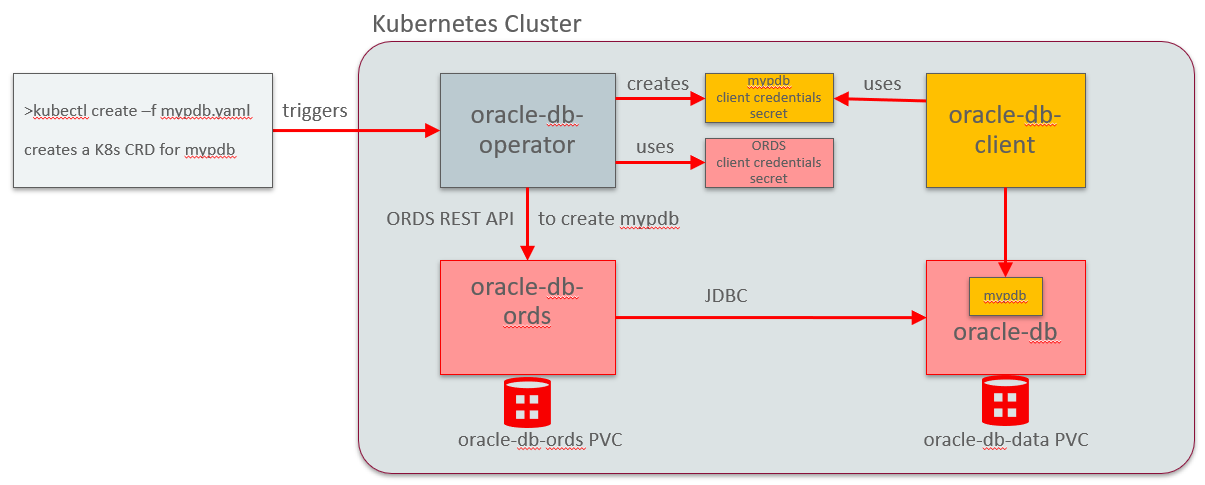
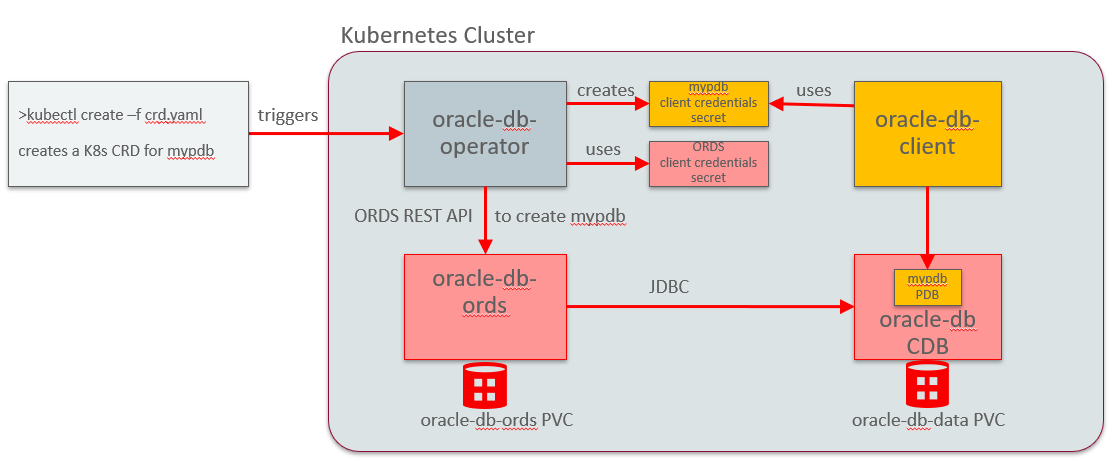
a bit more detail

diff --git a/README.md b/README.md
@@ -2,10 +2,15 @@
 
 [![License](https://img.shields.io/badge/license-Apache--2.0-blue.svg)](http://www.apache.org/licenses/LICENSE-2.0)
 
-Kubernetes native approach for lifecycle management of Oracle pluggable databases inside of a Oracle container (multitenant) database, based on kubernetes operator and custom ressource definitions (CRD). It enables seamless integration of DevOps pipelines for microservices using Oralce polyglot databases, with Oracle autonomous database technology
+The oracle-db-operator implements a kubernetes native approach for lifecycle management of Oracle pluggable databases(PDB) inside of a Oracle container (multitenant) database(CDB), based on kubernetes operator and custom ressource definitions (CRD). It enables seamless integration of DevOps pipelines for microservices using Oralce polyglot databases, with Oracle autonomous database technology
 
 # Architecture
 ![Screenshot](architecture.png)
+The Oracle container/multitenant database is shown in the picture as running in a k8s pod, which is fine for tests and development, but for production environments it will be running on-premise or as a cloud service.
+
+In a DevOps scenario, first a custom ressource definition containing the configuration of a PDB would be created. This would trigger the oracle-db-operator to provision the PDB using a REST API call to ORDS, that will be forwarded to the container database. In parallel, a secret containing the PDB client credentials will be created. A database client app could then use this secret to communicate with the PDB. Similarly, the deletion of the CRD would lead to deletion of the PDB.
+
+The oracle-db-operator implements a similar functionality to the [OCI Service Broker](https://github.com/oracle/oci-service-broker/) for Oracle database services in the cloud, but in contrast it can be used for on-premis scenarios.
 
 # Required docker images
 
@@ -105,7 +110,7 @@ kubectl apply -f manifest/operator.yaml
 ```
 Provision a test PDB mypdb, e.g.:
 ```bash
-kubectl create -f examples/cr.yaml
+kubectl create -f examples/crd.yaml
 ```
 Create a test PDB client, e.g.:
 ```bash
